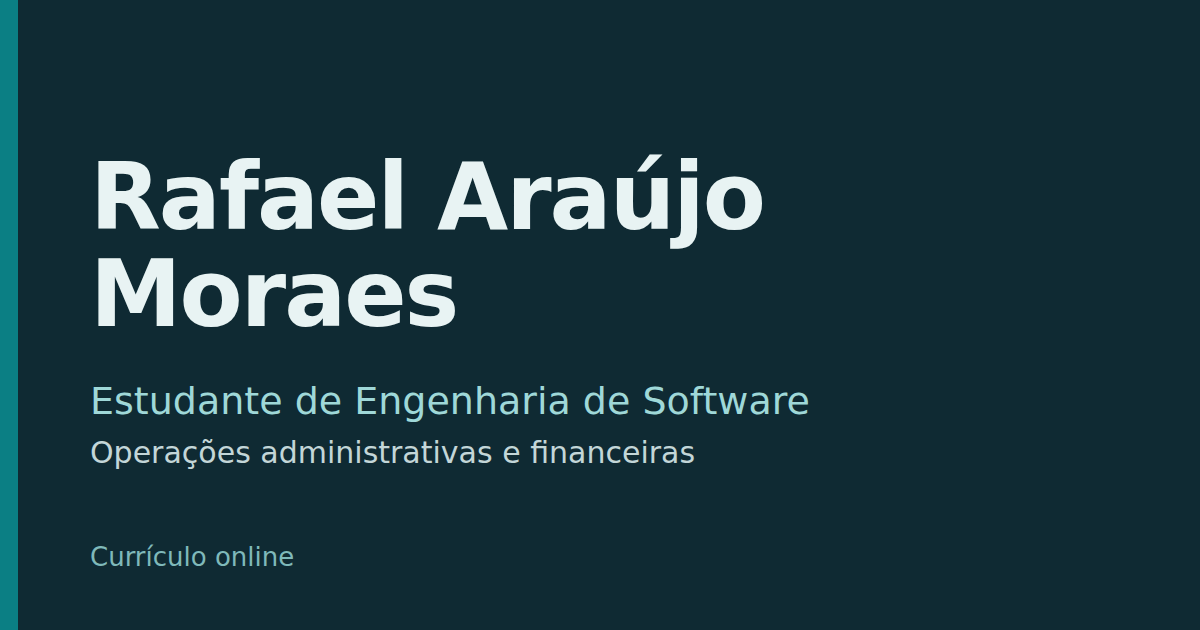
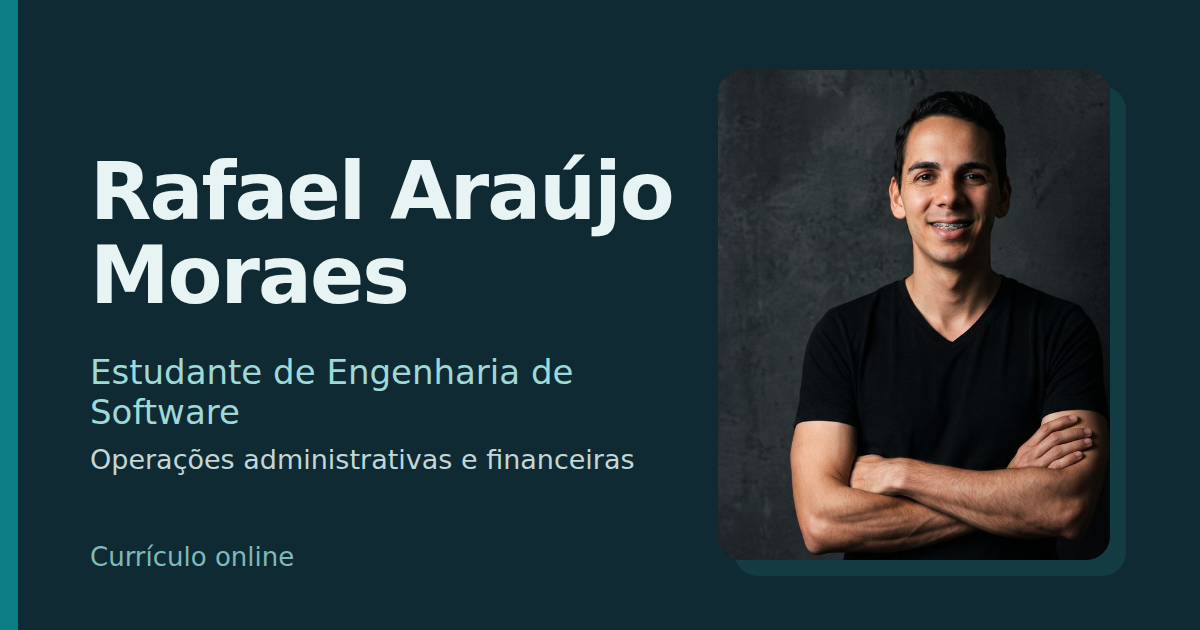
Add files via upload

Changed region(s): [[0.0617, 0.0905, 0.925, 0.9048], [0.8633, 0.1206, 0.8942, 0.1508]]

diff --git a/css/style.css b/css/style.css
@@ -1,71 +1,81 @@
-:root{--bg:#f2f6f6;--panel:#fff;--ink:#12232b;--mute:#52646c;--line:#d5e0e1;--teal:#0b7f84;--teal-soft:#dff1f1;--hi:#fff1cc;--hi-line:#e3a82b;--side:#0f2a33;--side-ink:#e8f3f3;
-box-sizing:border-box;padding-top:env(safe-area-inset-top,0px);padding-bottom:env(safe-area-inset-bottom,0px)}
-@media (prefers-color-scheme:dark){:root:not([data-theme="light"]){--bg:#0b1519;--panel:#122127;--ink:#e6f0f1;--mute:#9db1b6;--line:#23373e;--teal:#3cc4c4;--teal-soft:#16363a;--hi:#3a3115;--hi-line:#e3a82b;--side:#0a1a20;--side-ink:#e8f3f3}}
-:root[data-theme="dark"]{--bg:#0b1519;--panel:#122127;--ink:#e6f0f1;--mute:#9db1b6;--line:#23373e;--teal:#3cc4c4;--teal-soft:#16363a;--hi:#3a3115;--hi-line:#e3a82b;--side:#0a1a20;--side-ink:#e8f3f3}
+/* Tokens */
+:root{--bg:#edf3f2;--panel:#fff;--ink:#0e1f26;--mute:#4f636b;--line:#d3e0e0;--teal:#0b7f84;--teal-soft:#dff1f1;--hi:#fff1cc;--hi-line:#e3a82b;--side:#fff;--hero1:#cfeceb;--hero2:#f6fbfa;--grid:rgba(11,127,132,.10);--shadow:rgba(14,31,38,.12);box-sizing:border-box;padding-top:env(safe-area-inset-top,0px);padding-bottom:env(safe-area-inset-bottom,0px);color-scheme:light dark}
+@media (prefers-color-scheme:dark){:root:not([data-theme="light"]){--bg:#081317;--panel:#0f1f25;--ink:#e6f0f1;--mute:#9db1b6;--line:#1f343b;--teal:#3cc4c4;--teal-soft:#123438;--hi:#3a3115;--side:#0c1a20;--hero1:#0f3a42;--hero2:#0b1a20;--grid:rgba(60,196,196,.10);--shadow:rgba(0,0,0,.5)}}
+:root[data-theme="dark"]{--bg:#081317;--panel:#0f1f25;--ink:#e6f0f1;--mute:#9db1b6;--line:#1f343b;--teal:#3cc4c4;--teal-soft:#123438;--hi:#3a3115;--side:#0c1a20;--hero1:#0f3a42;--hero2:#0b1a20;--grid:rgba(60,196,196,.10);--shadow:rgba(0,0,0,.5)}
+:root[data-theme="light"]{color-scheme:light}:root[data-theme="dark"]{color-scheme:dark}
 *{box-sizing:border-box}
 html{scroll-padding-top:env(safe-area-inset-top,0px)}
-body{margin:0;background:var(--bg);color:var(--ink);font:400 16px/1.6 "Source Sans 3",system-ui,-apple-system,"Segoe UI",sans-serif}
+body{margin:0;background:var(--bg);color:var(--ink);font:400 16px/1.6 "Source Sans 3",system-ui,-apple-system,"Segoe UI",sans-serif;transition:background .25s,color .25s}
 h1,h2,h3{font-family:Sora,"Segoe UI",system-ui,sans-serif;margin:0;line-height:1.2}
 a{color:inherit}
 :focus-visible{outline:3px solid var(--hi-line);outline-offset:2px}
-.wrap{max-width:1080px;margin:0 auto;display:grid;grid-template-columns:300px 1fr;gap:0;min-height:100vh}
-aside{background:var(--side);color:var(--side-ink);padding:40px 28px;position:sticky;top:0;align-self:start;height:100vh;overflow-y:auto;display:flex;flex-direction:column;gap:22px}
-aside h1{font-size:2.3rem;font-weight:800;letter-spacing:-.02em}
-aside .role{font-size:1rem;color:#9fd8d8;margin-top:10px}
-aside ul{list-style:none;margin:0;padding:0;display:grid;gap:8px;font-size:.95rem}
-aside a{text-decoration:none;border-bottom:1px solid #ffffff33}
-aside a:hover{border-color:#9fd8d8}
+.skip{position:absolute;left:-999px;top:0;background:var(--ink);color:var(--bg);padding:10px 16px;z-index:10}.skip:focus{left:8px;top:8px}
+.wrap{max-width:1160px;margin:0 auto;display:grid;grid-template-columns:320px 1fr;min-height:100vh}
+/* Perfil (lateral) */
+aside{background:var(--side);color:var(--ink);border-right:1px solid var(--line);padding:32px 28px;position:sticky;top:0;align-self:start;height:100vh;overflow-y:auto;display:flex;flex-direction:column;gap:20px;transition:background .25s}
+.photo{width:100%;max-width:264px;aspect-ratio:4/5;object-fit:cover;border-radius:20px;box-shadow:10px 10px 0 var(--teal-soft),0 0 0 1px var(--line);margin:0 0 6px}
+aside h1{font-size:1.75rem;font-weight:800;letter-spacing:-.02em}
+aside .role{color:var(--teal);font-weight:600;margin:8px 0 0}
+aside ul{list-style:none;margin:0;padding:0;display:grid;gap:6px;font-size:.95rem;color:var(--mute)}
+aside ul a{text-decoration:none;border-bottom:1px solid var(--line)}aside ul a:hover{border-color:var(--teal);color:var(--ink)}
 .tools{margin-top:auto;display:flex;gap:8px;flex-wrap:wrap}
-.btn{font:600 .85rem "Source Sans 3",sans-serif;background:transparent;color:var(--side-ink);border:1px solid #ffffff55;border-radius:8px;padding:8px 12px;cursor:pointer}
-.btn:hover{background:#ffffff18}
-main{padding:40px clamp(20px,4vw,48px) 64px;display:grid;gap:36px;align-content:start}
-section>h2{font-size:1.15rem;font-weight:700;color:var(--teal);margin-bottom:14px;padding-bottom:8px;border-bottom:2px solid var(--teal)}
+.btn{font:600 .85rem "Source Sans 3",sans-serif;background:transparent;color:var(--ink);border:1px solid var(--line);border-radius:8px;padding:8px 12px;cursor:pointer}
+.btn:hover{border-color:var(--teal);background:var(--teal-soft)}
+.cta{display:flex;gap:10px;flex-wrap:wrap}
+.cta a{display:inline-flex;align-items:center;justify-content:center;font:700 .95rem "Source Sans 3",sans-serif;text-decoration:none;border-radius:10px;padding:11px 18px;border:2px solid transparent;transition:transform .15s,filter .15s}
+.cta a:hover{transform:translateY(-2px);filter:brightness(1.08)}
+.cta .wa{background:#1b9a4e;color:#fff}
+.cta .ml{border-color:var(--teal);color:var(--ink)}
+aside .cta a{flex:1 1 100%;padding:10px 14px}
+/* Conteúdo */
+main{padding:32px clamp(18px,4vw,48px) 64px;display:grid;gap:40px;align-content:start;min-width:0}
+section>h2{font-size:1.1rem;font-weight:700;margin-bottom:16px;display:flex;align-items:center;gap:12px}
+section>h2::before{content:"";width:28px;height:4px;border-radius:2px;background:var(--teal)}
+.hero{position:relative;overflow:hidden;border-radius:22px;padding:clamp(22px,4vw,40px);border:1px solid var(--line);background:radial-gradient(600px 240px at 90% 0,var(--teal-soft),transparent 70%),linear-gradient(var(--grid) 1px,transparent 1px) 0 0/28px 28px,linear-gradient(90deg,var(--grid) 1px,transparent 1px) 0 0/28px 28px,linear-gradient(135deg,var(--hero1),var(--hero2))}
+.eyebrow{font:600 .85rem ui-monospace,SFMono-Regular,Menlo,Consolas,monospace;color:var(--teal);margin:0 0 12px}
+.hero h2{font-size:clamp(1.5rem,3.2vw,2.3rem);font-weight:800;letter-spacing:-.02em;max-width:24ch;margin:0 0 24px;display:block}
+.hero h2::before{display:none}
+.stats{list-style:none;margin:0 0 24px;padding:0;display:grid;grid-template-columns:repeat(4,1fr);gap:12px}
+.stats li{background:var(--panel);border:1px solid var(--line);border-radius:14px;padding:12px 14px;display:grid;gap:2px;box-shadow:0 6px 18px var(--shadow)}
+.stats b{font:800 1.7rem Sora,sans-serif;color:var(--teal)}
+.stats span{font-size:.85rem;color:var(--mute);line-height:1.35}
 .lead{font-size:1.08rem;max-width:68ch;margin:0}
 .hint{color:var(--mute);font-size:.92rem;margin:0 0 12px}
+.seg{display:flex;flex-wrap:wrap;gap:6px}
+.seg button{font:600 .92rem "Source Sans 3",sans-serif;border:1.5px solid var(--ink);background:var(--panel);color:var(--ink);border-radius:999px;padding:7px 16px;cursor:pointer;transition:background .15s,color .15s}
+.seg button[aria-pressed="true"]{background:var(--ink);color:var(--bg)}
 .chips{display:flex;flex-wrap:wrap;gap:8px}
-.chip{font:600 .92rem "Source Sans 3",sans-serif;border:1.5px solid var(--teal);background:var(--teal-soft);color:var(--ink);border-radius:999px;padding:6px 14px;cursor:pointer;transition:background .15s,color .15s}
-.chip[aria-pressed="true"]{background:var(--teal);color:#fff}
-.chip.plain{cursor:default;border-style:dashed;background:transparent;color:var(--mute)}
+.chip{font:600 .92rem "Source Sans 3",sans-serif;border:1.5px solid var(--teal);background:var(--teal-soft);color:var(--ink);border-radius:999px;padding:6px 14px;cursor:pointer;transition:background .15s,color .15s,transform .15s}
+.chip:hover{transform:translateY(-1px)}
+.chip[aria-pressed="true"]{background:var(--teal);color:var(--bg)}
+.n{background:var(--panel);color:var(--teal);border-radius:999px;padding:0 7px;margin-left:6px;font-size:.78rem}
 .clear{margin-left:4px;font:600 .88rem "Source Sans 3",sans-serif;background:none;border:0;color:var(--teal);text-decoration:underline;cursor:pointer;visibility:hidden}
 .filtering .clear{visibility:visible}
 #status{margin:12px 0 0;color:var(--mute);font-size:.92rem;min-height:1.4em}
-details{background:var(--panel);border:1px solid var(--line);border-radius:12px;margin-bottom:14px}
+details{background:var(--panel);border:1px solid var(--line);border-left:4px solid var(--teal);border-radius:12px;margin-bottom:14px}
 summary{list-style:none;cursor:pointer;padding:16px 20px;display:flex;justify-content:space-between;gap:16px;align-items:center}
 summary::-webkit-details-marker{display:none}
-summary h3{font-size:1.05rem;font-weight:700}
-summary .org{color:var(--teal);font-weight:600;font-size:.95rem}
+summary h3{font-size:1.05rem;font-weight:700;display:block}
+.sm,.org{display:block}.org{color:var(--teal);font-weight:600;font-size:.95rem}
 summary .date{color:var(--mute);font-size:.9rem;white-space:nowrap}
 summary::after{content:"+";font:700 1.3rem Sora,sans-serif;color:var(--teal);margin-left:4px}
 details[open] summary::after{content:"–"}
 details ul{margin:0;padding:0 20px 18px 40px;display:grid;gap:8px}
 #exp li{padding:2px 8px;border-radius:6px;border-left:3px solid transparent;transition:opacity .2s,background .2s}
 .filtering #exp li{opacity:.4}
-.filtering #exp li.match{opacity:1;background:var(--hi);border-left-color:var(--hi-line)}
+.filtering #exp li.match{opacity:1;background:var(--hi);border-left-color:var(--hi-line);color:var(--ink)}
+:root[data-theme="dark"] .filtering #exp li.match{color:#fff}
 .edu{display:grid;gap:10px}
-.edu div{transition:opacity .2s,background .2s}
+.edu div{background:var(--panel);border:1px solid var(--line);border-radius:12px;padding:14px 20px;display:flex;justify-content:space-between;gap:12px;flex-wrap:wrap;transition:opacity .2s,background .2s}
+.edu b{font:700 1rem Sora,sans-serif}.edu span{color:var(--mute)}
 .filtering .edu div{opacity:.4}
 .filtering .edu div.match{opacity:1;background:var(--hi);border-color:var(--hi-line)}
-.edu div{background:var(--panel);border:1px solid var(--line);border-radius:12px;padding:14px 20px;display:flex;justify-content:space-between;gap:12px;flex-wrap:wrap}
-.edu b{font-family:Sora,sans-serif;font-weight:700;font-size:1rem}
-.edu span{color:var(--mute)}
-.now{font-size:.8rem;font-weight:600;background:var(--hi);border:1px solid var(--hi-line);border-radius:6px;padding:1px 8px;margin-left:8px;vertical-align:middle}
-.seg{display:flex;flex-wrap:wrap;gap:6px}
-.seg button{font:600 .92rem "Source Sans 3",sans-serif;border:1.5px solid var(--ink);background:transparent;color:var(--ink);border-radius:8px;padding:7px 14px;cursor:pointer}
-.seg button[aria-pressed="true"]{background:var(--ink);color:var(--bg)}
-.n{background:var(--panel);color:var(--teal);border-radius:999px;padding:0 7px;margin-left:6px;font-size:.78rem}
-.cta{display:flex;gap:10px;flex-wrap:wrap}
-.cta a{display:inline-flex;align-items:center;justify-content:center;gap:8px;font:700 .95rem "Source Sans 3",sans-serif;text-decoration:none;border-radius:10px;padding:11px 18px;border:2px solid transparent}
-.cta .wa{background:#1fa855;color:#fff}
-.cta .ml{background:transparent;color:inherit;border-color:currentColor}
-.cta a:hover{filter:brightness(1.1)}
-aside .cta a{flex:1 1 100%;padding:10px 14px}
-aside .cta .ml{color:var(--side-ink);border-color:#ffffff66}
-.contact{background:var(--panel);border:1px solid var(--line);border-radius:12px;padding:22px 24px;display:grid;gap:14px}
+.now{font-size:.8rem;font-weight:600;background:var(--hi);color:var(--ink);border:1px solid var(--hi-line);border-radius:6px;padding:1px 8px;margin-left:8px;vertical-align:middle}
+.contact{background:linear-gradient(135deg,var(--hero1),var(--hero2));border:1px solid var(--line);border-radius:18px;padding:26px;display:grid;gap:14px}
 .contact p{margin:0;max-width:60ch}
-@media (max-width:820px){.wrap{grid-template-columns:1fr}aside{position:static;height:auto}.tools{margin-top:0}summary{flex-direction:column;align-items:flex-start;gap:4px}summary::after{display:none}}
-@media (prefers-reduced-motion:reduce){*{transition:none!important}}
-@media print{:root:root:root{--bg:#fff;--panel:#fff;--ink:#12232b;--mute:#52646c;--line:#d5e0e1;--teal:#0b7f84;--teal-soft:#dff1f1;--hi:#fff1cc}.cta,.contact,.seg,aside .tools,.clear,.hint,#status{display:none}body{background:#fff}.wrap{display:block}aside{position:static;height:auto;background:#fff;color:#000;padding:0 0 12px}aside .role{color:#0b7f84}aside a{border:0}details{break-inside:avoid}li{opacity:1!important;background:none!important;border:0!important}details>*{display:block}}
-.skip{position:absolute;left:-999px;top:0;background:var(--ink);color:var(--bg);padding:10px 16px;z-index:10}
-.skip:focus{left:8px;top:8px}
-.sm{display:block}.org{display:block}
-summary h3{display:block}
+@keyframes up{from{opacity:0;transform:translateY(10px)}}
+.hero>*{animation:up .5s both}.hero>:nth-child(2){animation-delay:.08s}.hero>:nth-child(3){animation-delay:.16s}.hero>:nth-child(4){animation-delay:.24s}
+@media (max-width:900px){.stats{grid-template-columns:repeat(2,1fr)}}
+@media (max-width:820px){.wrap{grid-template-columns:1fr}aside{position:static;height:auto;border-right:0;border-bottom:1px solid var(--line)}.photo{max-width:200px}.tools{margin-top:0}summary{flex-direction:column;align-items:flex-start;gap:4px}summary::after{display:none}}
+@media (prefers-reduced-motion:reduce){*{transition:none!important;animation:none!important}}
+@media print{:root:root:root{--bg:#fff;--panel:#fff;--ink:#12232b;--mute:#52646c;--line:#d5e0e1;--teal:#0b7f84;--teal-soft:#dff1f1;--hi:#fff1cc;--side:#fff}.hero,.cta,.contact,.seg,.tools,.clear,.hint,#status{display:none}body{background:#fff}.wrap{display:block}aside{position:static;height:auto;border:0;padding:0 0 12px}.photo{display:none}details{break-inside:avoid}#exp li{opacity:1!important;background:none!important;border:0!important}details>*{display:block}}

diff --git a/index.html b/index.html
@@ -31,6 +31,7 @@
 <noscript><p style="margin:0;padding:10px 16px;background:#fff1cc;color:#12232b">Ative o JavaScript para usar os filtros. O conteúdo completo está visível abaixo.</p></noscript>
 <div class="wrap">
 <aside>
+  <img class="photo" src="img/rafael.jpg" width="320" height="400" alt="Foto de Rafael Araújo Moraes" fetchpriority="high">
   <div>
     <h1>Rafael Araújo Moraes</h1>
     <p class="role">Estudante de Engenharia de Software<br>Operações administrativas e financeiras</p>
@@ -50,7 +51,15 @@
 </aside>
 
 <main id="conteudo">
-  <section>
+  <section class="hero" aria-label="Apresentação">
+    <p class="eyebrow">// em transição: operações → software</p>
+    <h2>Mais de 6 anos fazendo operações financeiras e administrativas funcionarem. Agora, estudando Engenharia de Software.</h2>
+    <ul class="stats">
+      <li><b>6+</b><span>anos de experiência corporativa</span></li>
+      <li><b>2</b><span>grupos de grande porte: Rede D’Or São Luiz e FSB Holding</span></li>
+      <li><b>3</b><span>frentes: administrativo, financeiro e processos</span></li>
+      <li><b>8 h</b><span>de imersão em agentes de IA</span></li>
+    </ul>
     <p class="hint">Para qual tipo de vaga você está avaliando? A página destaca o que é mais relevante.</p>
     <div class="seg" id="seg">
       <button type="button" aria-pressed="true" data-p="geral">Visão geral</button>
